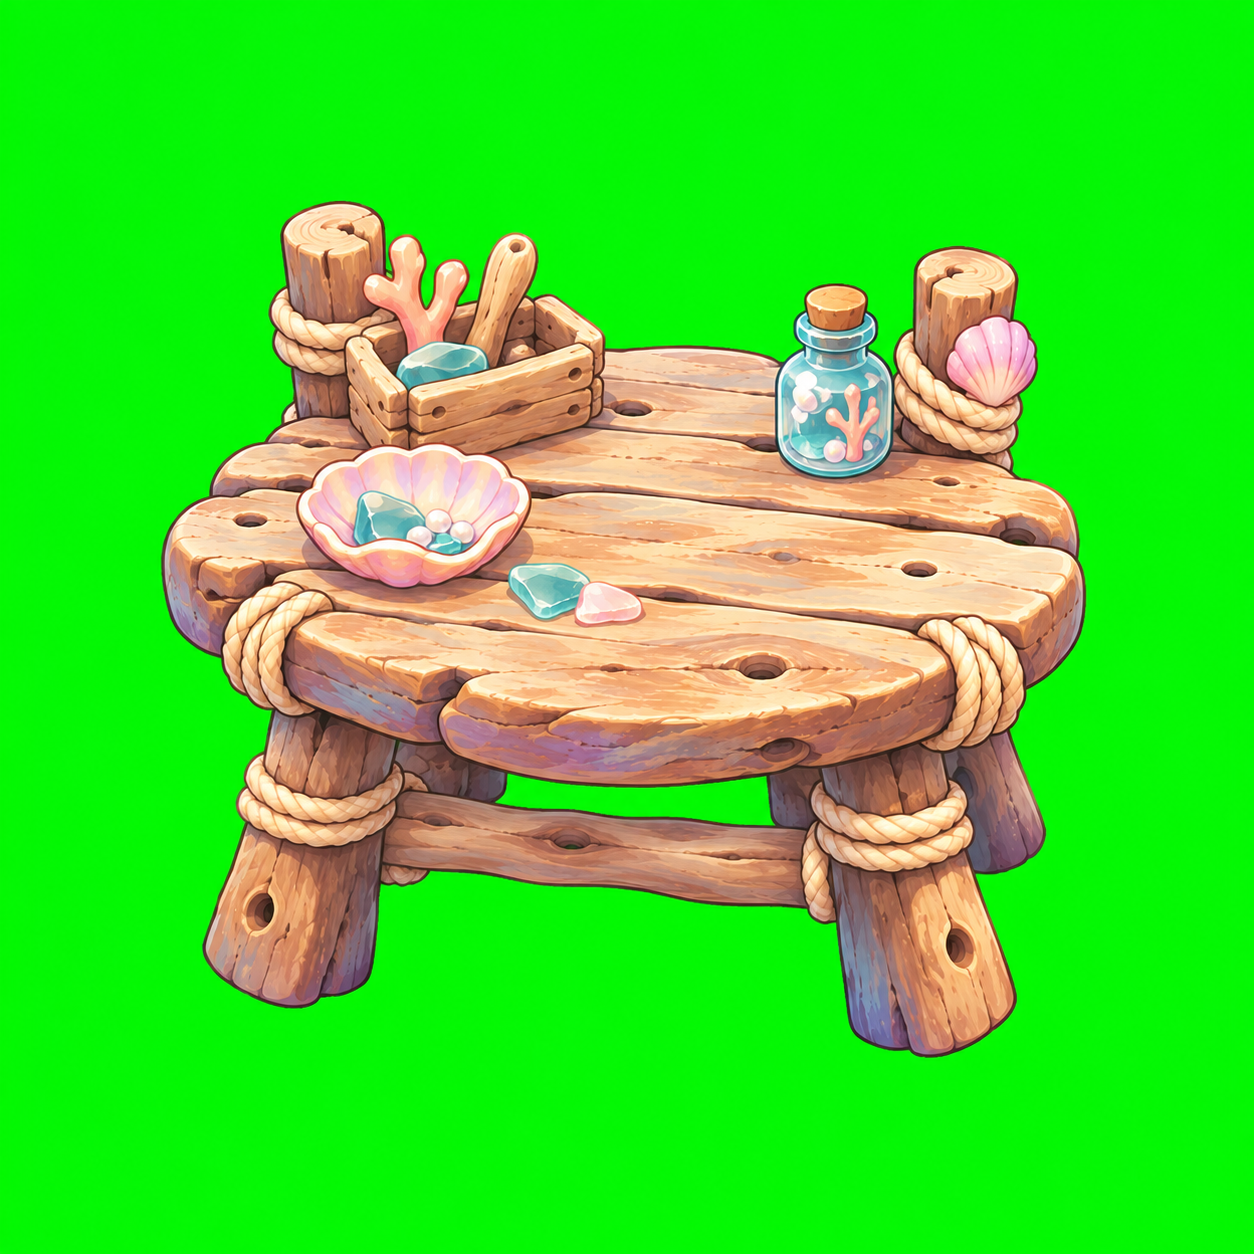
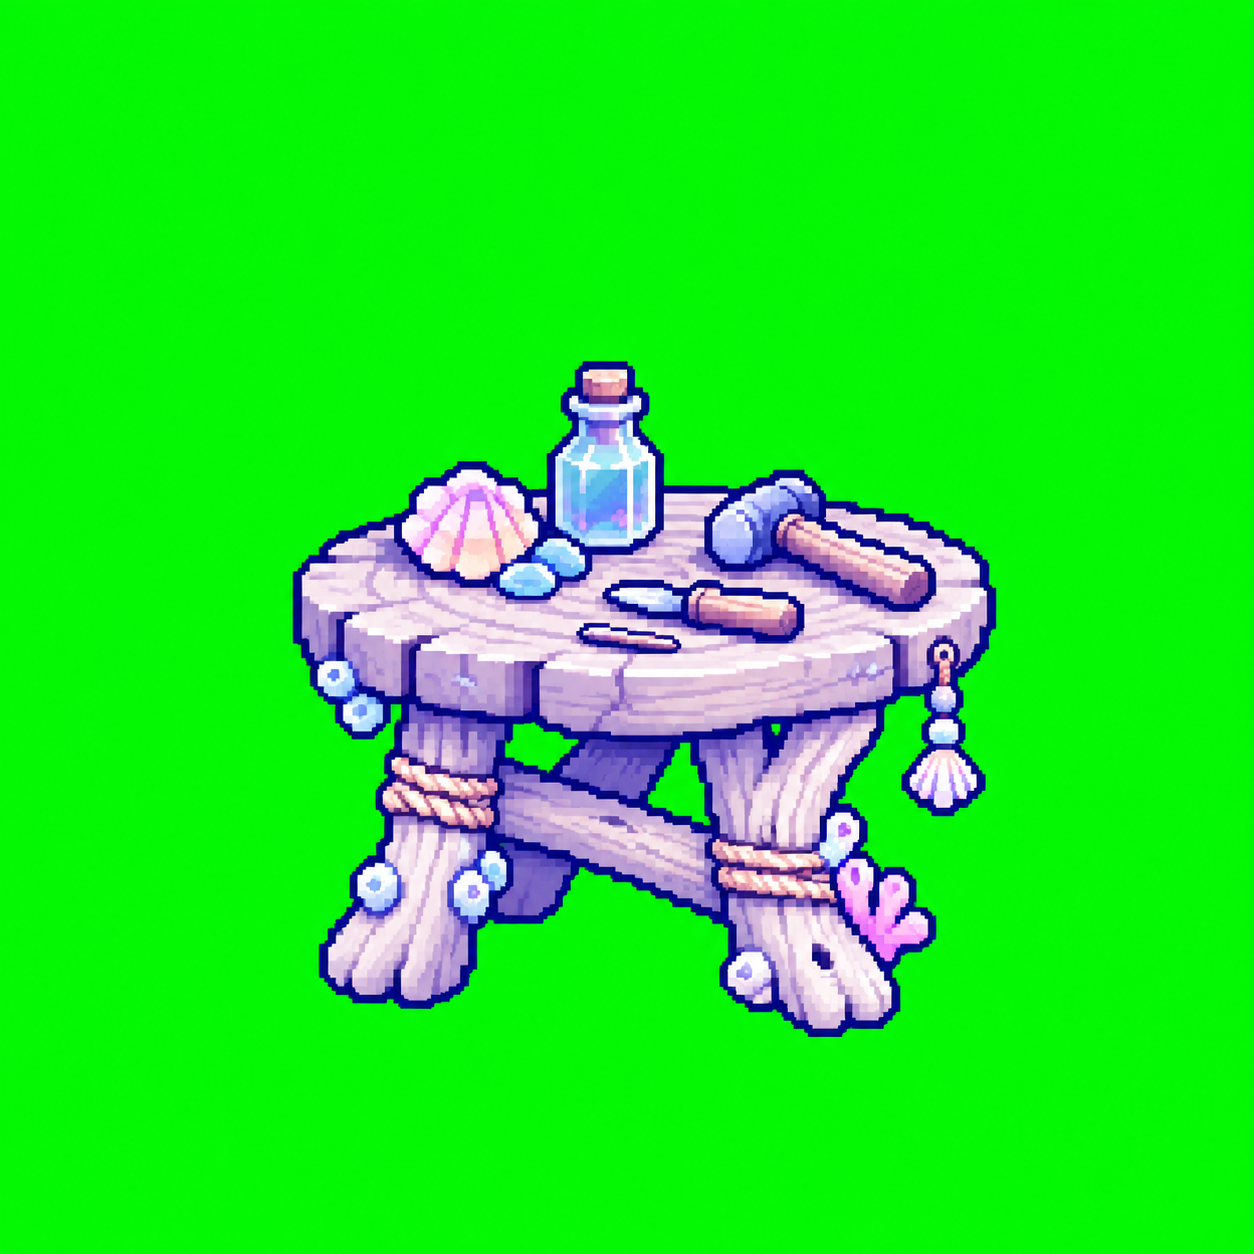
こうぼうの作業台・看板・貝殻窯を 森と同じタッチの絵に（開発版）
Claude-Session: https://claude.ai/code/session_01AoJ88BrSyrEsKzo23n7Mg1

diff --git a/source/game.html b/source/game.html
@@ -850,7 +850,7 @@ sprImg.src = 'umimi-sprites.png';
 const COS_IMG = {};
 function cosImgFor(cat){ let im=COS_IMG[cat]; if(!im){ im=COS_IMG[cat]=new Image(); im.onload=()=>{ if(S){ renderTray(); if(!$('closet').hidden) renderCloset(); } }; im.src='c_'+cat+'.png'; } return (im.complete && im.naturalWidth) ? im : null; }
 const VIS_SPR = {"res":1.6,"m":{"jelly":{"w":172,"h":172,"a":"c","y":0},"star":{"w":145,"h":132,"a":"b","y":172},"seahorse":{"w":121,"h":180,"a":"c","y":304},"crab":{"w":180,"h":127,"a":"b","y":484},"dolphin":{"w":236,"h":144,"a":"c","y":611},"penguin":{"w":164,"h":147,"a":"b","y":755},"turtle":{"w":212,"h":145,"a":"b","y":902},"octopus":{"w":164,"h":156,"a":"b","y":1047},"puffer":{"w":161,"h":127,"a":"c","y":1203},"otter":{"w":204,"h":156,"a":"c","y":1330}}};
-const FIMG = {m:{"cbench":{"s":"craft","x":0,"y":0,"w":260,"h":137,"rw":130,"rh":68,"tw":110,"th":58},"cbench_f":{"s":"craft","x":0,"y":139,"w":260,"h":124,"rw":130,"rh":62,"tw":110,"th":52},"ctable":{"s":"craft","x":0,"y":265,"w":220,"h":156,"rw":110,"rh":78,"tw":92,"th":65},"ctable_f":{"s":"craft","x":0,"y":423,"w":220,"h":151,"rw":110,"rh":76,"tw":92,"th":64},"cshelllamp":{"s":"craft","x":0,"y":576,"w":140,"h":141,"rw":70,"rh":70,"tw":62,"th":62},"cshelllamp_f":{"s":"craft","x":0,"y":719,"w":140,"h":142,"rw":70,"rh":71,"tw":62,"th":63},"ccoralpot":{"s":"craft","x":0,"y":863,"w":144,"h":153,"rw":72,"rh":76,"tw":60,"th":63},"ccoralpot_f":{"s":"craft","x":0,"y":1018,"w":144,"h":157,"rw":72,"rh":78,"tw":60,"th":65},"cmobile":{"s":"craft","x":0,"y":1177,"w":160,"h":213,"rw":80,"rh":106,"tw":72,"th":95},"cmobile_f":{"s":"craft","x":0,"y":1392,"w":160,"h":230,"rw":80,"rh":115,"tw":72,"th":104},"bwork":{"s":"craft","x":0,"y":1624,"w":380,"h":352,"rw":190,"rh":176,"tw":190,"th":176},"bsign":{"s":"craft","x":382,"y":0,"w":300,"h":206,"rw":150,"rh":103,"tw":150,"th":103},"bkiln":{"s":"craft","x":382,"y":208,"w":320,"h":318,"rw":160,"rh":159,"tw":160,"th":159},"rug":{"s":"base","x":0,"y":0,"w":340,"h":190,"rw":170,"rh":95,"tw":0,"th":0},"bed":{"s":"base","x":0,"y":192,"w":300,"h":283,"rw":150,"rh":142,"tw":0,"th":0},"lamp":{"s":"base","x":0,"y":477,"w":132,"h":234,"rw":66,"rh":117,"tw":0,"th":0},"cushion":{"s":"base","x":0,"y":713,"w":160,"h":113,"rw":80,"rh":56,"tw":0,"th":0},"plant":{"s":"base","x":0,"y":828,"w":124,"h":153,"rw":62,"rh":76,"tw":0,"th":0},"shelf":{"s":"base","x":0,"y":983,"w":210,"h":332,"rw":105,"rh":166,"tw":0,"th":0},"window":{"s":"base","x":0,"y":1317,"w":270,"h":232,"rw":135,"rh":116,"tw":0,"th":0},"windowday":{"s":"base","x":0,"y":1551,"w":270,"h":232,"rw":135,"rh":116,"tw":0,"th":0},"frame":{"s":"base","x":0,"y":1785,"w":144,"h":148,"rw":72,"rh":74,"tw":0,"th":0},"table":{"s":"base","x":342,"y":0,"w":230,"h":187,"rw":115,"rh":94,"tw":0,"th":0},"shellbed":{"s":"pearl","x":0,"y":0,"w":350,"h":326,"rw":175,"rh":163,"tw":110,"th":102},"shelltable":{"s":"pearl","x":0,"y":328,"w":250,"h":160,"rw":125,"rh":80,"tw":82,"th":52},"shellchair":{"s":"pearl","x":0,"y":490,"w":210,"h":198,"rw":105,"rh":99,"tw":72,"th":68},"bottle":{"s":"pearl","x":0,"y":690,"w":116,"h":136,"rw":58,"rh":68,"tw":42,"th":49},"crystal2":{"s":"pearl","x":0,"y":828,"w":180,"h":164,"rw":90,"rh":82,"tw":62,"th":56},"shellcake":{"s":"pearl","x":0,"y":994,"w":156,"h":161,"rw":78,"rh":80,"tw":54,"th":55},"lanternstand":{"s":"autumn","x":0,"y":0,"w":200,"h":266,"rw":100,"rh":133,"tw":95,"th":126},"stall":{"s":"autumn","x":0,"y":268,"w":400,"h":313,"rw":200,"rh":156,"tw":180,"th":140},"kingyo":{"s":"autumn","x":0,"y":583,"w":380,"h":295,"rw":190,"rh":148,"tw":160,"th":125},"mcushion":{"s":"autumn","x":0,"y":880,"w":230,"h":142,"rw":115,"rh":71,"tw":90,"th":56},"garland":{"s":"autumn","x":0,"y":1024,"w":600,"h":198,"rw":300,"rh":99,"tw":200,"th":66},"chochin":{"s":"autumn","x":0,"y":1224,"w":160,"h":329,"rw":80,"rh":164,"tw":80,"th":164},"omen":{"s":"autumn","x":0,"y":1555,"w":400,"h":349,"rw":200,"rh":174,"tw":180,"th":157},"acorn":{"s":"autumn","x":602,"y":0,"w":120,"h":103,"rw":60,"rh":52,"tw":42,"th":36},"yakiimo":{"s":"autumn","x":602,"y":105,"w":140,"h":90,"rw":70,"rh":45,"tw":48,"th":31},"bridge":{"s":"autumn","x":602,"y":197,"w":460,"h":206,"rw":230,"rh":103,"tw":200,"th":90},"pumpkinstand":{"s":"halloween","x":0,"y":0,"w":170,"h":344,"rw":85,"rh":172,"tw":80,"th":162},"hrug":{"s":"halloween","x":0,"y":346,"w":340,"h":200,"rw":170,"rh":100,"tw":120,"th":71},"ghostcushion":{"s":"halloween","x":0,"y":548,"w":170,"h":149,"rw":85,"rh":74,"tw":72,"th":63},"hframe":{"s":"halloween","x":0,"y":699,"w":160,"h":187,"rw":80,"rh":94,"tw":0,"th":0},"candytable":{"s":"halloween","x":0,"y":888,"w":210,"h":244,"rw":105,"rh":122,"tw":82,"th":95},"hshelf":{"s":"halloween","x":0,"y":1134,"w":230,"h":309,"rw":115,"rh":154,"tw":100,"th":134},"jbox_0":{"s":"halloween","x":0,"y":1445,"w":170,"h":170,"rw":85,"rh":85,"tw":74,"th":74},"jbox_1":{"s":"halloween","x":0,"y":1617,"w":170,"h":170,"rw":85,"rh":85,"tw":74,"th":74},"jbox_2":{"s":"halloween","x":0,"y":1789,"w":170,"h":170,"rw":85,"rh":85,"tw":74,"th":74},"jbox_3":{"s":"halloween","x":342,"y":0,"w":170,"h":170,"rw":85,"rh":85,"tw":74,"th":74},"chandelier_0":{"s":"halloween","x":342,"y":172,"w":260,"h":375,"rw":130,"rh":188,"tw":0,"th":0},"chandelier_1":{"s":"halloween","x":342,"y":549,"w":260,"h":375,"rw":130,"rh":188,"tw":0,"th":0},"chandelier_2":{"s":"halloween","x":342,"y":926,"w":260,"h":375,"rw":130,"rh":188,"tw":0,"th":0},"jbox":{"s":"halloween","x":0,"y":1445,"w":170,"h":170,"rw":85,"rh":85,"tw":74,"th":74},"chandelier":{"s":"halloween","x":342,"y":172,"w":260,"h":375,"rw":130,"rh":188,"tw":0,"th":0},"pdresser":{"s":"pearl","x":0,"y":1157,"w":250,"h":279,"rw":125,"rh":140,"tw":84,"th":94},"pdresser2":{"s":"pearl","x":0,"y":1438,"w":240,"h":312,"rw":120,"rh":156,"tw":82,"th":107},"pnight":{"s":"pearl","x":0,"y":1752,"w":156,"h":203,"rw":78,"rh":102,"tw":56,"th":73},"psofa":{"s":"pearl","x":352,"y":0,"w":370,"h":241,"rw":185,"rh":120,"tw":124,"th":80},"pbox":{"s":"pearl","x":352,"y":243,"w":100,"h":83,"rw":50,"rh":42,"tw":36,"th":30},"bcoral":{"s":"craft","x":382,"y":528,"w":260,"h":236,"rw":130,"rh":118,"tw":130,"th":118},"frock1":{"s":"forest","x":0,"y":0,"w":400,"h":255,"rw":200,"rh":128,"tw":200,"th":128},"frock2":{"s":"forest","x":0,"y":257,"w":340,"h":290,"rw":170,"rh":145,"tw":170,"th":145},"frock3":{"s":"forest","x":0,"y":549,"w":300,"h":162,"rw":150,"rh":81,"tw":150,"th":81},"frock4":{"s":"forest","x":0,"y":713,"w":360,"h":181,"rw":180,"rh":90,"tw":180,"th":90},"frock5":{"s":"forest","x":0,"y":896,"w":320,"h":249,"rw":160,"rh":124,"tw":160,"th":124},"frock6":{"s":"forest","x":0,"y":1147,"w":400,"h":190,"rw":200,"rh":95,"tw":200,"th":95},"fkelp1":{"s":"forest","x":0,"y":1339,"w":160,"h":234,"rw":80,"rh":117,"tw":80,"th":117},"fkelp2":{"s":"forest","x":0,"y":1575,"w":172,"h":254,"rw":86,"rh":127,"tw":86,"th":127}}};
+const FIMG = {m:{"cbench":{"s":"craft","x":0,"y":0,"w":260,"h":137,"rw":130,"rh":68,"tw":110,"th":58},"cbench_f":{"s":"craft","x":0,"y":139,"w":260,"h":124,"rw":130,"rh":62,"tw":110,"th":52},"ctable":{"s":"craft","x":0,"y":265,"w":220,"h":156,"rw":110,"rh":78,"tw":92,"th":65},"ctable_f":{"s":"craft","x":0,"y":423,"w":220,"h":151,"rw":110,"rh":76,"tw":92,"th":64},"cshelllamp":{"s":"craft","x":0,"y":576,"w":140,"h":141,"rw":70,"rh":70,"tw":62,"th":62},"cshelllamp_f":{"s":"craft","x":0,"y":719,"w":140,"h":142,"rw":70,"rh":71,"tw":62,"th":63},"ccoralpot":{"s":"craft","x":0,"y":863,"w":144,"h":153,"rw":72,"rh":76,"tw":60,"th":63},"ccoralpot_f":{"s":"craft","x":0,"y":1018,"w":144,"h":157,"rw":72,"rh":78,"tw":60,"th":65},"cmobile":{"s":"craft","x":0,"y":1177,"w":160,"h":213,"rw":80,"rh":106,"tw":72,"th":95},"cmobile_f":{"s":"craft","x":0,"y":1392,"w":160,"h":230,"rw":80,"rh":115,"tw":72,"th":104},"bwork":{"s":"craft","x":0,"y":1624,"w":350,"h":336,"rw":175,"rh":168,"tw":175,"th":168},"bsign":{"s":"craft","x":352,"y":0,"w":224,"h":242,"rw":112,"rh":121,"tw":112,"th":121},"bkiln":{"s":"craft","x":352,"y":244,"w":320,"h":250,"rw":160,"rh":125,"tw":160,"th":125},"rug":{"s":"base","x":0,"y":0,"w":340,"h":190,"rw":170,"rh":95,"tw":0,"th":0},"bed":{"s":"base","x":0,"y":192,"w":300,"h":283,"rw":150,"rh":142,"tw":0,"th":0},"lamp":{"s":"base","x":0,"y":477,"w":132,"h":234,"rw":66,"rh":117,"tw":0,"th":0},"cushion":{"s":"base","x":0,"y":713,"w":160,"h":113,"rw":80,"rh":56,"tw":0,"th":0},"plant":{"s":"base","x":0,"y":828,"w":124,"h":153,"rw":62,"rh":76,"tw":0,"th":0},"shelf":{"s":"base","x":0,"y":983,"w":210,"h":332,"rw":105,"rh":166,"tw":0,"th":0},"window":{"s":"base","x":0,"y":1317,"w":270,"h":232,"rw":135,"rh":116,"tw":0,"th":0},"windowday":{"s":"base","x":0,"y":1551,"w":270,"h":232,"rw":135,"rh":116,"tw":0,"th":0},"frame":{"s":"base","x":0,"y":1785,"w":144,"h":148,"rw":72,"rh":74,"tw":0,"th":0},"table":{"s":"base","x":342,"y":0,"w":230,"h":187,"rw":115,"rh":94,"tw":0,"th":0},"shellbed":{"s":"pearl","x":0,"y":0,"w":350,"h":326,"rw":175,"rh":163,"tw":110,"th":102},"shelltable":{"s":"pearl","x":0,"y":328,"w":250,"h":160,"rw":125,"rh":80,"tw":82,"th":52},"shellchair":{"s":"pearl","x":0,"y":490,"w":210,"h":198,"rw":105,"rh":99,"tw":72,"th":68},"bottle":{"s":"pearl","x":0,"y":690,"w":116,"h":136,"rw":58,"rh":68,"tw":42,"th":49},"crystal2":{"s":"pearl","x":0,"y":828,"w":180,"h":164,"rw":90,"rh":82,"tw":62,"th":56},"shellcake":{"s":"pearl","x":0,"y":994,"w":156,"h":161,"rw":78,"rh":80,"tw":54,"th":55},"lanternstand":{"s":"autumn","x":0,"y":0,"w":200,"h":266,"rw":100,"rh":133,"tw":95,"th":126},"stall":{"s":"autumn","x":0,"y":268,"w":400,"h":313,"rw":200,"rh":156,"tw":180,"th":140},"kingyo":{"s":"autumn","x":0,"y":583,"w":380,"h":295,"rw":190,"rh":148,"tw":160,"th":125},"mcushion":{"s":"autumn","x":0,"y":880,"w":230,"h":142,"rw":115,"rh":71,"tw":90,"th":56},"garland":{"s":"autumn","x":0,"y":1024,"w":600,"h":198,"rw":300,"rh":99,"tw":200,"th":66},"chochin":{"s":"autumn","x":0,"y":1224,"w":160,"h":329,"rw":80,"rh":164,"tw":80,"th":164},"omen":{"s":"autumn","x":0,"y":1555,"w":400,"h":349,"rw":200,"rh":174,"tw":180,"th":157},"acorn":{"s":"autumn","x":602,"y":0,"w":120,"h":103,"rw":60,"rh":52,"tw":42,"th":36},"yakiimo":{"s":"autumn","x":602,"y":105,"w":140,"h":90,"rw":70,"rh":45,"tw":48,"th":31},"bridge":{"s":"autumn","x":602,"y":197,"w":460,"h":206,"rw":230,"rh":103,"tw":200,"th":90},"pumpkinstand":{"s":"halloween","x":0,"y":0,"w":170,"h":344,"rw":85,"rh":172,"tw":80,"th":162},"hrug":{"s":"halloween","x":0,"y":346,"w":340,"h":200,"rw":170,"rh":100,"tw":120,"th":71},"ghostcushion":{"s":"halloween","x":0,"y":548,"w":170,"h":149,"rw":85,"rh":74,"tw":72,"th":63},"hframe":{"s":"halloween","x":0,"y":699,"w":160,"h":187,"rw":80,"rh":94,"tw":0,"th":0},"candytable":{"s":"halloween","x":0,"y":888,"w":210,"h":244,"rw":105,"rh":122,"tw":82,"th":95},"hshelf":{"s":"halloween","x":0,"y":1134,"w":230,"h":309,"rw":115,"rh":154,"tw":100,"th":134},"jbox_0":{"s":"halloween","x":0,"y":1445,"w":170,"h":170,"rw":85,"rh":85,"tw":74,"th":74},"jbox_1":{"s":"halloween","x":0,"y":1617,"w":170,"h":170,"rw":85,"rh":85,"tw":74,"th":74},"jbox_2":{"s":"halloween","x":0,"y":1789,"w":170,"h":170,"rw":85,"rh":85,"tw":74,"th":74},"jbox_3":{"s":"halloween","x":342,"y":0,"w":170,"h":170,"rw":85,"rh":85,"tw":74,"th":74},"chandelier_0":{"s":"halloween","x":342,"y":172,"w":260,"h":375,"rw":130,"rh":188,"tw":0,"th":0},"chandelier_1":{"s":"halloween","x":342,"y":549,"w":260,"h":375,"rw":130,"rh":188,"tw":0,"th":0},"chandelier_2":{"s":"halloween","x":342,"y":926,"w":260,"h":375,"rw":130,"rh":188,"tw":0,"th":0},"jbox":{"s":"halloween","x":0,"y":1445,"w":170,"h":170,"rw":85,"rh":85,"tw":74,"th":74},"chandelier":{"s":"halloween","x":342,"y":172,"w":260,"h":375,"rw":130,"rh":188,"tw":0,"th":0},"pdresser":{"s":"pearl","x":0,"y":1157,"w":250,"h":279,"rw":125,"rh":140,"tw":84,"th":94},"pdresser2":{"s":"pearl","x":0,"y":1438,"w":240,"h":312,"rw":120,"rh":156,"tw":82,"th":107},"pnight":{"s":"pearl","x":0,"y":1752,"w":156,"h":203,"rw":78,"rh":102,"tw":56,"th":73},"psofa":{"s":"pearl","x":352,"y":0,"w":370,"h":241,"rw":185,"rh":120,"tw":124,"th":80},"pbox":{"s":"pearl","x":352,"y":243,"w":100,"h":83,"rw":50,"rh":42,"tw":36,"th":30},"bcoral":{"s":"craft","x":352,"y":496,"w":260,"h":236,"rw":130,"rh":118,"tw":130,"th":118},"frock1":{"s":"forest","x":0,"y":0,"w":400,"h":255,"rw":200,"rh":128,"tw":200,"th":128},"frock2":{"s":"forest","x":0,"y":257,"w":340,"h":290,"rw":170,"rh":145,"tw":170,"th":145},"frock3":{"s":"forest","x":0,"y":549,"w":300,"h":162,"rw":150,"rh":81,"tw":150,"th":81},"frock4":{"s":"forest","x":0,"y":713,"w":360,"h":181,"rw":180,"rh":90,"tw":180,"th":90},"frock5":{"s":"forest","x":0,"y":896,"w":320,"h":249,"rw":160,"rh":124,"tw":160,"th":124},"frock6":{"s":"forest","x":0,"y":1147,"w":400,"h":190,"rw":200,"rh":95,"tw":200,"th":95},"fkelp1":{"s":"forest","x":0,"y":1339,"w":160,"h":234,"rw":80,"rh":117,"tw":80,"th":117},"fkelp2":{"s":"forest","x":0,"y":1575,"w":172,"h":254,"rw":86,"rh":127,"tw":86,"th":127}}};
 const FSHEETS = {};
 function fsheet(n){ let im=FSHEETS[n]; if(!im){ im=FSHEETS[n]=new Image(); im.onload=()=>{ if(S && mode==='decor') renderTray(); if(typeof asobiView!=='undefined' && asobiView==='room' && room && room.edit) renderAsobi(); }; im.src='f_'+n+'.png'; } return (im.complete && im.naturalWidth) ? im : null; }
 function animKey(k,seed){
@@ -3960,7 +3960,7 @@ function drawBench(c){
   c.restore();
 }
 function drawKiln(c){
-  { const fm=FIMG.m['bkiln'], P=B_KILN; if(fm && fsheet(fm.s)){ const s=scaleD(P.d), gy=floorY(P.d); c.fillStyle='rgba(120,100,90,.16)'; c.beginPath(); c.ellipse(P.x,gy,fm.tw*.45*s,8*s,0,0,TAU); c.fill(); c.save(); c.translate(P.x,gy+4*s); c.scale(s,s); drawFImg(c,'bkiln',fm.tw,fm.th,0); c.restore(); const fl=.75+.25*Math.sin(T*6)+.1*Math.sin(T*13); glows.push({x:P.x-6*s, y:gy-34*s, r:46*s, col:'255,170,90', a:(.2+.45*night)*fl}); return; } }
+  { const fm=FIMG.m['bkiln'], P=B_KILN; if(fm && fsheet(fm.s)){ const s=scaleD(P.d), gy=floorY(P.d); c.fillStyle='rgba(120,100,90,.16)'; c.beginPath(); c.ellipse(P.x,gy,fm.tw*.45*s,8*s,0,0,TAU); c.fill(); c.save(); c.translate(P.x,gy+4*s); c.scale(s,s); drawFImg(c,'bkiln',fm.tw,fm.th,0); c.restore(); const fl=.75+.25*Math.sin(T*6)+.1*Math.sin(T*13); glows.push({x:P.x-16*s, y:gy-30*s, r:40*s, col:'255,170,90', a:(.2+.45*night)*fl}); return; } }
   const s = scaleD(B_KILN.d), gy = floorY(B_KILN.d);
   c.fillStyle='rgba(120,100,90,.14)'; c.beginPath(); c.ellipse(B_KILN.x,gy,70*s,10*s,0,0,TAU); c.fill();
   c.save(); c.translate(B_KILN.x,gy); c.scale(s,s);
@@ -3975,7 +3975,10 @@ function drawKiln(c){
   glows.push({x:B_KILN.x, y:gy-12*s, r:48*s, col:'255,170,90', a:(.18+.4*night)*fl});
 }
 function drawSign(c){
-  { const fm=FIMG.m['bsign'], P=B_SIGN; if(fm && fsheet(fm.s)){ const s=scaleD(P.d), gy=floorY(P.d); c.fillStyle='rgba(120,100,90,.16)'; c.beginPath(); c.ellipse(P.x,gy,fm.tw*.45*s,8*s,0,0,TAU); c.fill(); c.save(); c.translate(P.x,gy+4*s); c.scale(s,s); drawFImg(c,'bsign',fm.tw,fm.th,0); c.restore();  return; } }
+  { const fm=FIMG.m['bsign'], P=B_SIGN; if(fm && fsheet(fm.s)){ const s=scaleD(P.d), gy=floorY(P.d); c.fillStyle='rgba(120,100,90,.16)'; c.beginPath(); c.ellipse(P.x,gy,fm.tw*.45*s,8*s,0,0,TAU); c.fill(); c.save(); c.translate(P.x,gy+4*s); c.scale(s,s); drawFImg(c,'bsign',fm.tw,fm.th,0);
+    // 板は 無地の絵なので 文字は ここで書く
+    c.font=`700 ${Math.round(fm.tw*.15)}px "Klee One", "Zen Maru Gothic", sans-serif`; c.textAlign='center'; c.textBaseline='middle'; c.fillStyle='rgba(255,255,255,.6)'; c.fillText('こうぼう',1,-fm.th*.615+1); c.fillStyle='#55488e'; c.fillText('こうぼう',0,-fm.th*.615);
+    c.restore(); return; } }
   const s = scaleD(B_SIGN.d), gy = floorY(B_SIGN.d);
   c.save(); c.translate(B_SIGN.x,gy); c.scale(s,s);
   c.fillStyle='#a57d58'; c.fillRect(-3,-46,6,46);

diff --git a/source/furniture/build_furniture2.py b/source/furniture/build_furniture2.py
@@ -9,7 +9,7 @@ SERIES = {
  'base':    {'rug':(170,0),'bed':(150,0),'lamp':(66,0),'cushion':(80,0),'plant':(62,0),'shelf':(105,0),'window':(135,0),'windowday':(135,0),'frame':(72,0),'table':(115,0)},
  'pearl':   {'shellbed':(175,110),'shelltable':(125,82),'shellchair':(105,72),'bottle':(58,42),'crystal2':(90,62),'shellcake':(78,54),'pdresser':(125,84),'pdresser2':(120,82),'pnight':(78,56),'psofa':(185,124),'pbox':(50,36)},
  'autumn':  {'lanternstand':(100,95),'stall':(200,180),'kingyo':(190,160),'mcushion':(115,90),'garland':(300,200),'chochin':(80,80),'omen':(200,180),'acorn':(60,42),'yakiimo':(70,48),'bridge':(230,200)},
- 'craft':   {'cbench':(130,110),'cbench_f':(130,110),'ctable':(110,92),'ctable_f':(110,92),'cshelllamp':(70,62),'cshelllamp_f':(70,62),'ccoralpot':(72,60),'ccoralpot_f':(72,60),'cmobile':(80,72),'cmobile_f':(80,72),'bwork':(190,190),'bsign':(150,150),'bkiln':(160,160),'bcoral':(130,130)},
+ 'craft':   {'cbench':(130,110),'cbench_f':(130,110),'ctable':(110,92),'ctable_f':(110,92),'cshelllamp':(70,62),'cshelllamp_f':(70,62),'ccoralpot':(72,60),'ccoralpot_f':(72,60),'cmobile':(80,72),'cmobile_f':(80,72),'bwork':(175,175),'bsign':(112,112),'bkiln':(160,160),'bcoral':(130,130)},
  'forest':  {'frock1':(200,200),'frock2':(170,170),'frock3':(150,150),'frock4':(180,180),'frock5':(160,160),'frock6':(200,200),'fkelp1':(80,80),'fkelp2':(86,86)},
  'halloween':{'pumpkinstand':(85,80),'hrug':(170,120),'ghostcushion':(85,72),'hframe':(80,0),'candytable':(105,82),'hshelf':(115,100),'jbox':(85,74,4,'b'),'chandelier':(130,0,3,'t')},
 }

diff --git a/CLAUDE.md b/CLAUDE.md
@@ -74,7 +74,7 @@
 - B は同じキャンバスに `drawAreaB()` で描く。A の `update()` は B を見ているあいだも動き続ける（A の暮らしはそのまま）
 - おでかけ：えらんだ子（最大 `B_MAX`=3）の**コピー**が B を歩く（A にもいる）。`S.areaB = {members:[id], visited}`、いま見ているエリアは `S.area`（'a'|'b'）。コピーは `bCopies`（保存しない）、パーティクルは `pB`
 - B の背景はピッちゃん作の手前なしの絵：ひる `bg_forest.png`／よる `bg_forest_n.png`（1672x941、256色。元は source/furniture/src/forestday_src.png・forestnight_src.png）。絵の砂のはじまり `BGF_HZ`=.69 を floorTop に合わせ、よるは よるの絵を night の濃さで重ねる（よるの絵は よるに森を見たとき はじめて読み込む）。たて長の画面は 絵の下を砂の色でのばす。手前の岩・サンゴ・海藻は `B_ROCKS`（f_forest.png の frock1〜6・fkelp1〜2 と bcoral。海藻はゆらゆら）。ウミミと前後が入れかわる。読み込み前はコードの絵。おへやの壁紙「サンゴの森」（WALLS.coralforest）も この絵の上のほうを使う（デスクトップ版は bg_forest.png を app にコピー）
-- B の作業台（`B_BENCH`）・貝殻窯（`B_KILN`）・看板はまだ飾り（タップで「もうすぐ」）
+- B の作業台（`B_BENCH`）・貝殻窯（`B_KILN`）・看板（`B_SIGN`）は 2026-10-05 に森と同じタッチの絵へ差し替え（元は src/*_old.png）。看板の絵は無地で、「こうぼう」の文字は drawSign() がコードで書く
 - そざい（ステップ2）：`MATS` 5種＝流木 wood／貝がら shell／サンゴのかけら coral／海ガラス glass／ほしのすな sand（w は出やすさ）。もっている数は `S.mats`
   - 流れ着く：森の砂に `S.bDrops`（さいだい `DROP_MAX`=6）。開いているあいだ 70〜130秒に1こ（A を見ていても）、るすのあいだは30分に1こ（`awayDrops`）。タップで +1
   - おでかけの子が拾う：`S.areaB.bag`（かご、さいだい12）。メンバーがいれば `GATHER_MS`=20分に1こ、時刻 `S.areaB.gT` から計算するので見ていなくても たまる。かご（`B_BASKET`）をタップで まとめて受け取る。性格で拾いやすい物が少し変わる（`PERS_FIND`）
